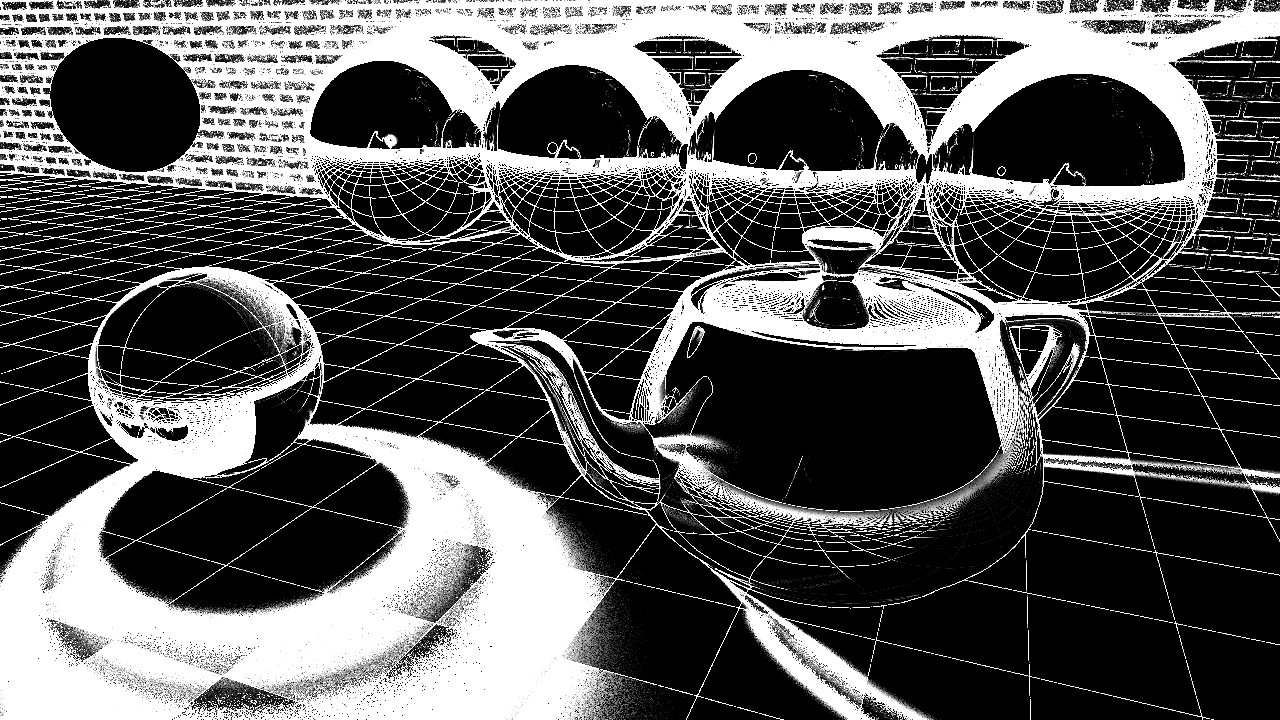
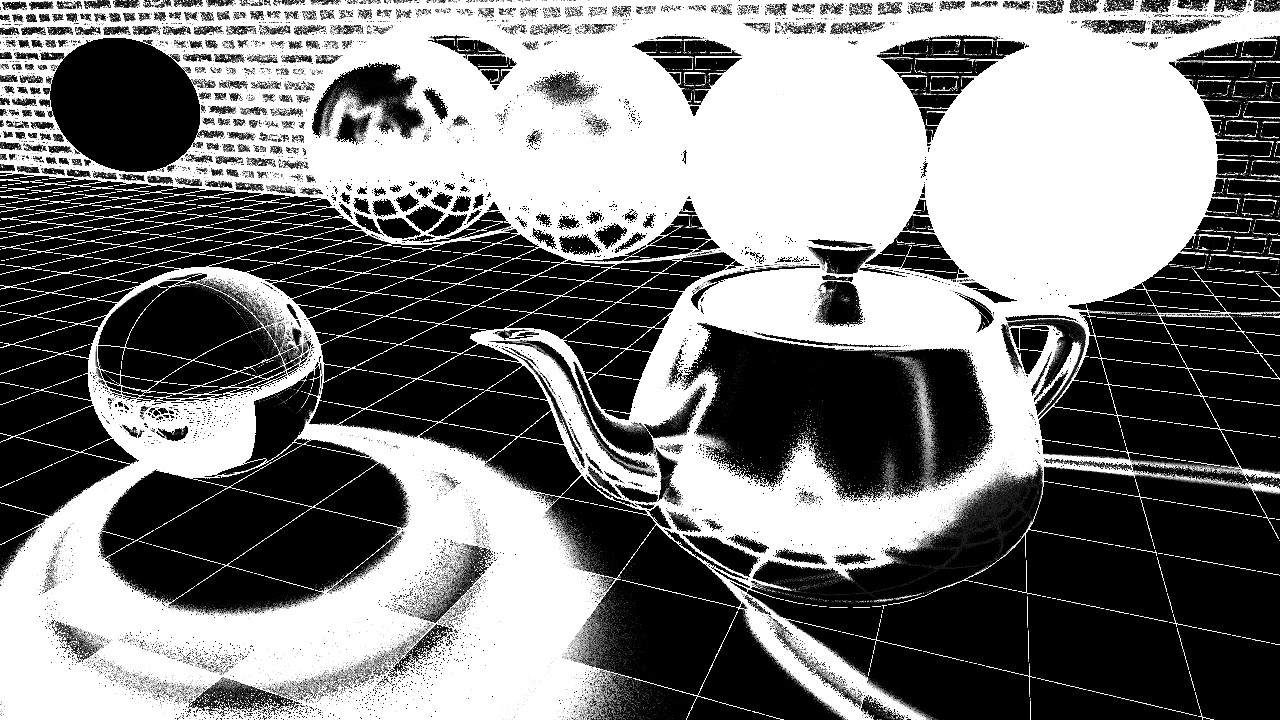
Kind of got glossiness working for reflections. Need to not hard-code halton

diff --git a/src/materials.cpp b/src/materials.cpp
@@ -3,6 +3,12 @@
 #include "scene.h"
 #include <iostream>
 
+namespace
+{
+    HaltonSeq<static_cast<int>(16)> haltonSeqPhi{ 2 };
+    HaltonSeq<static_cast<int>(16)> haltonSeqTheta{ 3 };
+}
+
 
 Color MtlBlinn::Shade(ShadeInfo const &shadeInfo) const
 {
@@ -39,13 +45,39 @@ Color MtlBlinn::Shade(ShadeInfo const &shadeInfo) const
         return finalColor;
 
     // Reflections
+    const float phiOffset{ shadeInfo.RandomFloat() };
+    const float thetaOffset{ shadeInfo.RandomFloat() };
     if (reflection.GetValue().Sum() > 0.0f)
     {
-        const Vec3f perfectReflectionDir{ normal * 2 * shadeInfo.V().Dot(normal) - shadeInfo.V() };
-        const Ray reflectionRay{ shadeInfo.P() + perfectReflectionDir * 0.0002f, perfectReflectionDir };
+        Vec3f u, v;
+        normal.GetOrthonormals(u, v);
+        Color accumulatedColor{ 0.0f };
 
-        float dist;
-        finalColor += shadeInfo.TraceSecondaryRay(reflectionRay, dist) * reflection.GetValue();
+        const float phi{ 2.0f * M_PI * fmod(haltonSeqPhi[0] + phiOffset, 1.0f) };
+        const float cosTheta{ pow(fmod(haltonSeqTheta[0] + thetaOffset, 1.0f), 1.0f / (glossiness.GetValue() + 1.0f)) };
+        const float sinTheta{ sqrt(1.0f - cosTheta * cosTheta) };
+
+        const float x{ sinTheta * cos(phi) };
+        const float y{ sinTheta * sin(phi) };
+        const float z{ cosTheta };
+
+        const Vec3f hLocal{ x, y, z };
+        const Vec3f h{ (x * u) + (y * v) + (z * normal) };
+
+        const Vec3f reflectionDir{ h * 2 * shadeInfo.V().Dot(h) - shadeInfo.V() };
+        if (reflectionDir.Dot(normal) > 0.0f) 
+        {
+            const Ray reflectionRay{ shadeInfo.P() + reflectionDir * 0.0002f, reflectionDir };
+
+            float dist;
+            finalColor += shadeInfo.TraceSecondaryRay(reflectionRay, dist) * reflection.GetValue();
+        }
+
+        //const Vec3f perfectReflectionDir{ normal * 2 * shadeInfo.V().Dot(normal) - shadeInfo.V() };
+        //const Ray reflectionRay{ shadeInfo.P() + perfectReflectionDir * 0.0002f, perfectReflectionDir };
+
+        //float dist;
+        //finalColor += shadeInfo.TraceSecondaryRay(reflectionRay, dist) * reflection.GetValue();
     }
 
     // Refractions

diff --git a/src/lights.h b/src/lights.h
@@ -92,9 +92,9 @@ public:
             const float y{ diskRadius * sin(diskTheta) };
             const Vec3f destination{ position + ((x * size) * u) + (y * size) * v };
 
-            const Vec3f sampleRay{ destination - sInfo.P() };
+            const Vec3f sampleRayDir{ destination - sInfo.P() };
 
-            if (sInfo.TraceShadowRay(sampleRay, 1) == 1.0f)
+            if (sInfo.TraceShadowRay(sampleRayDir, 1.0f) == 1.0f)
                 ++numHits;
 
             if (i + 1 == minNumSamples && (numHits == 0 || numHits == minNumSamples))
